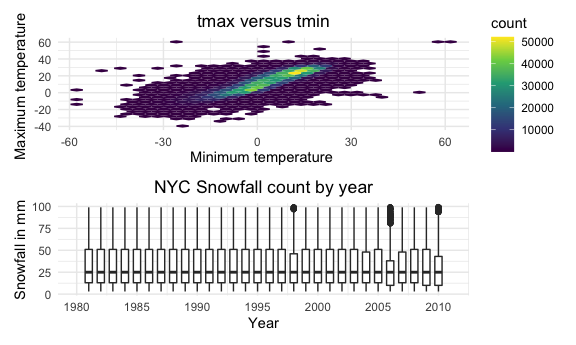
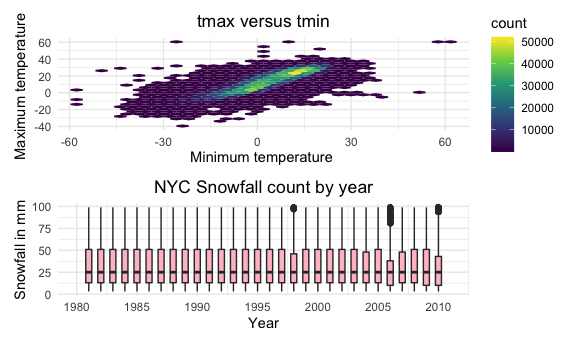
attempt 3

Changed region(s): [[0.125, 0.7246, 0.7812, 0.8406]]

diff --git a/p8105_hw3_yc4195.md b/p8105_hw3_yc4195.md
@@ -1,7 +1,7 @@
 p8105_hw3_yc4195.RMD
 ================
 Yimin Chen yc4195
-2022-10-12
+2022-10-13
 
 ## Problem 1
 
@@ -310,7 +310,7 @@ plot1=
   theme(plot.title = element_text(hjust = 0.5))
 plot2=
   noaa_df %>%
-  filter(snow > 0 ,snow < 100) %>%
+  filter(snow > 0 ,snow <100) %>%
   group_by(year) %>%
   ggplot(aes(x = year, y = snow,group = year)) +
   labs(
@@ -320,7 +320,7 @@ plot2=
   )+scale_x_continuous(
                      breaks =c(1980,1985,1990,1995,2000,2005,2010),
                      limits = c(1980,2011))+ 
-  stat_boxplot(geom = "boxplot",  width = 0.6)+
+  geom_boxplot(width = 0.5,fill="pink")+
   theme(plot.title = element_text(hjust = 0.5))
 plot1 / plot2  
 ```
